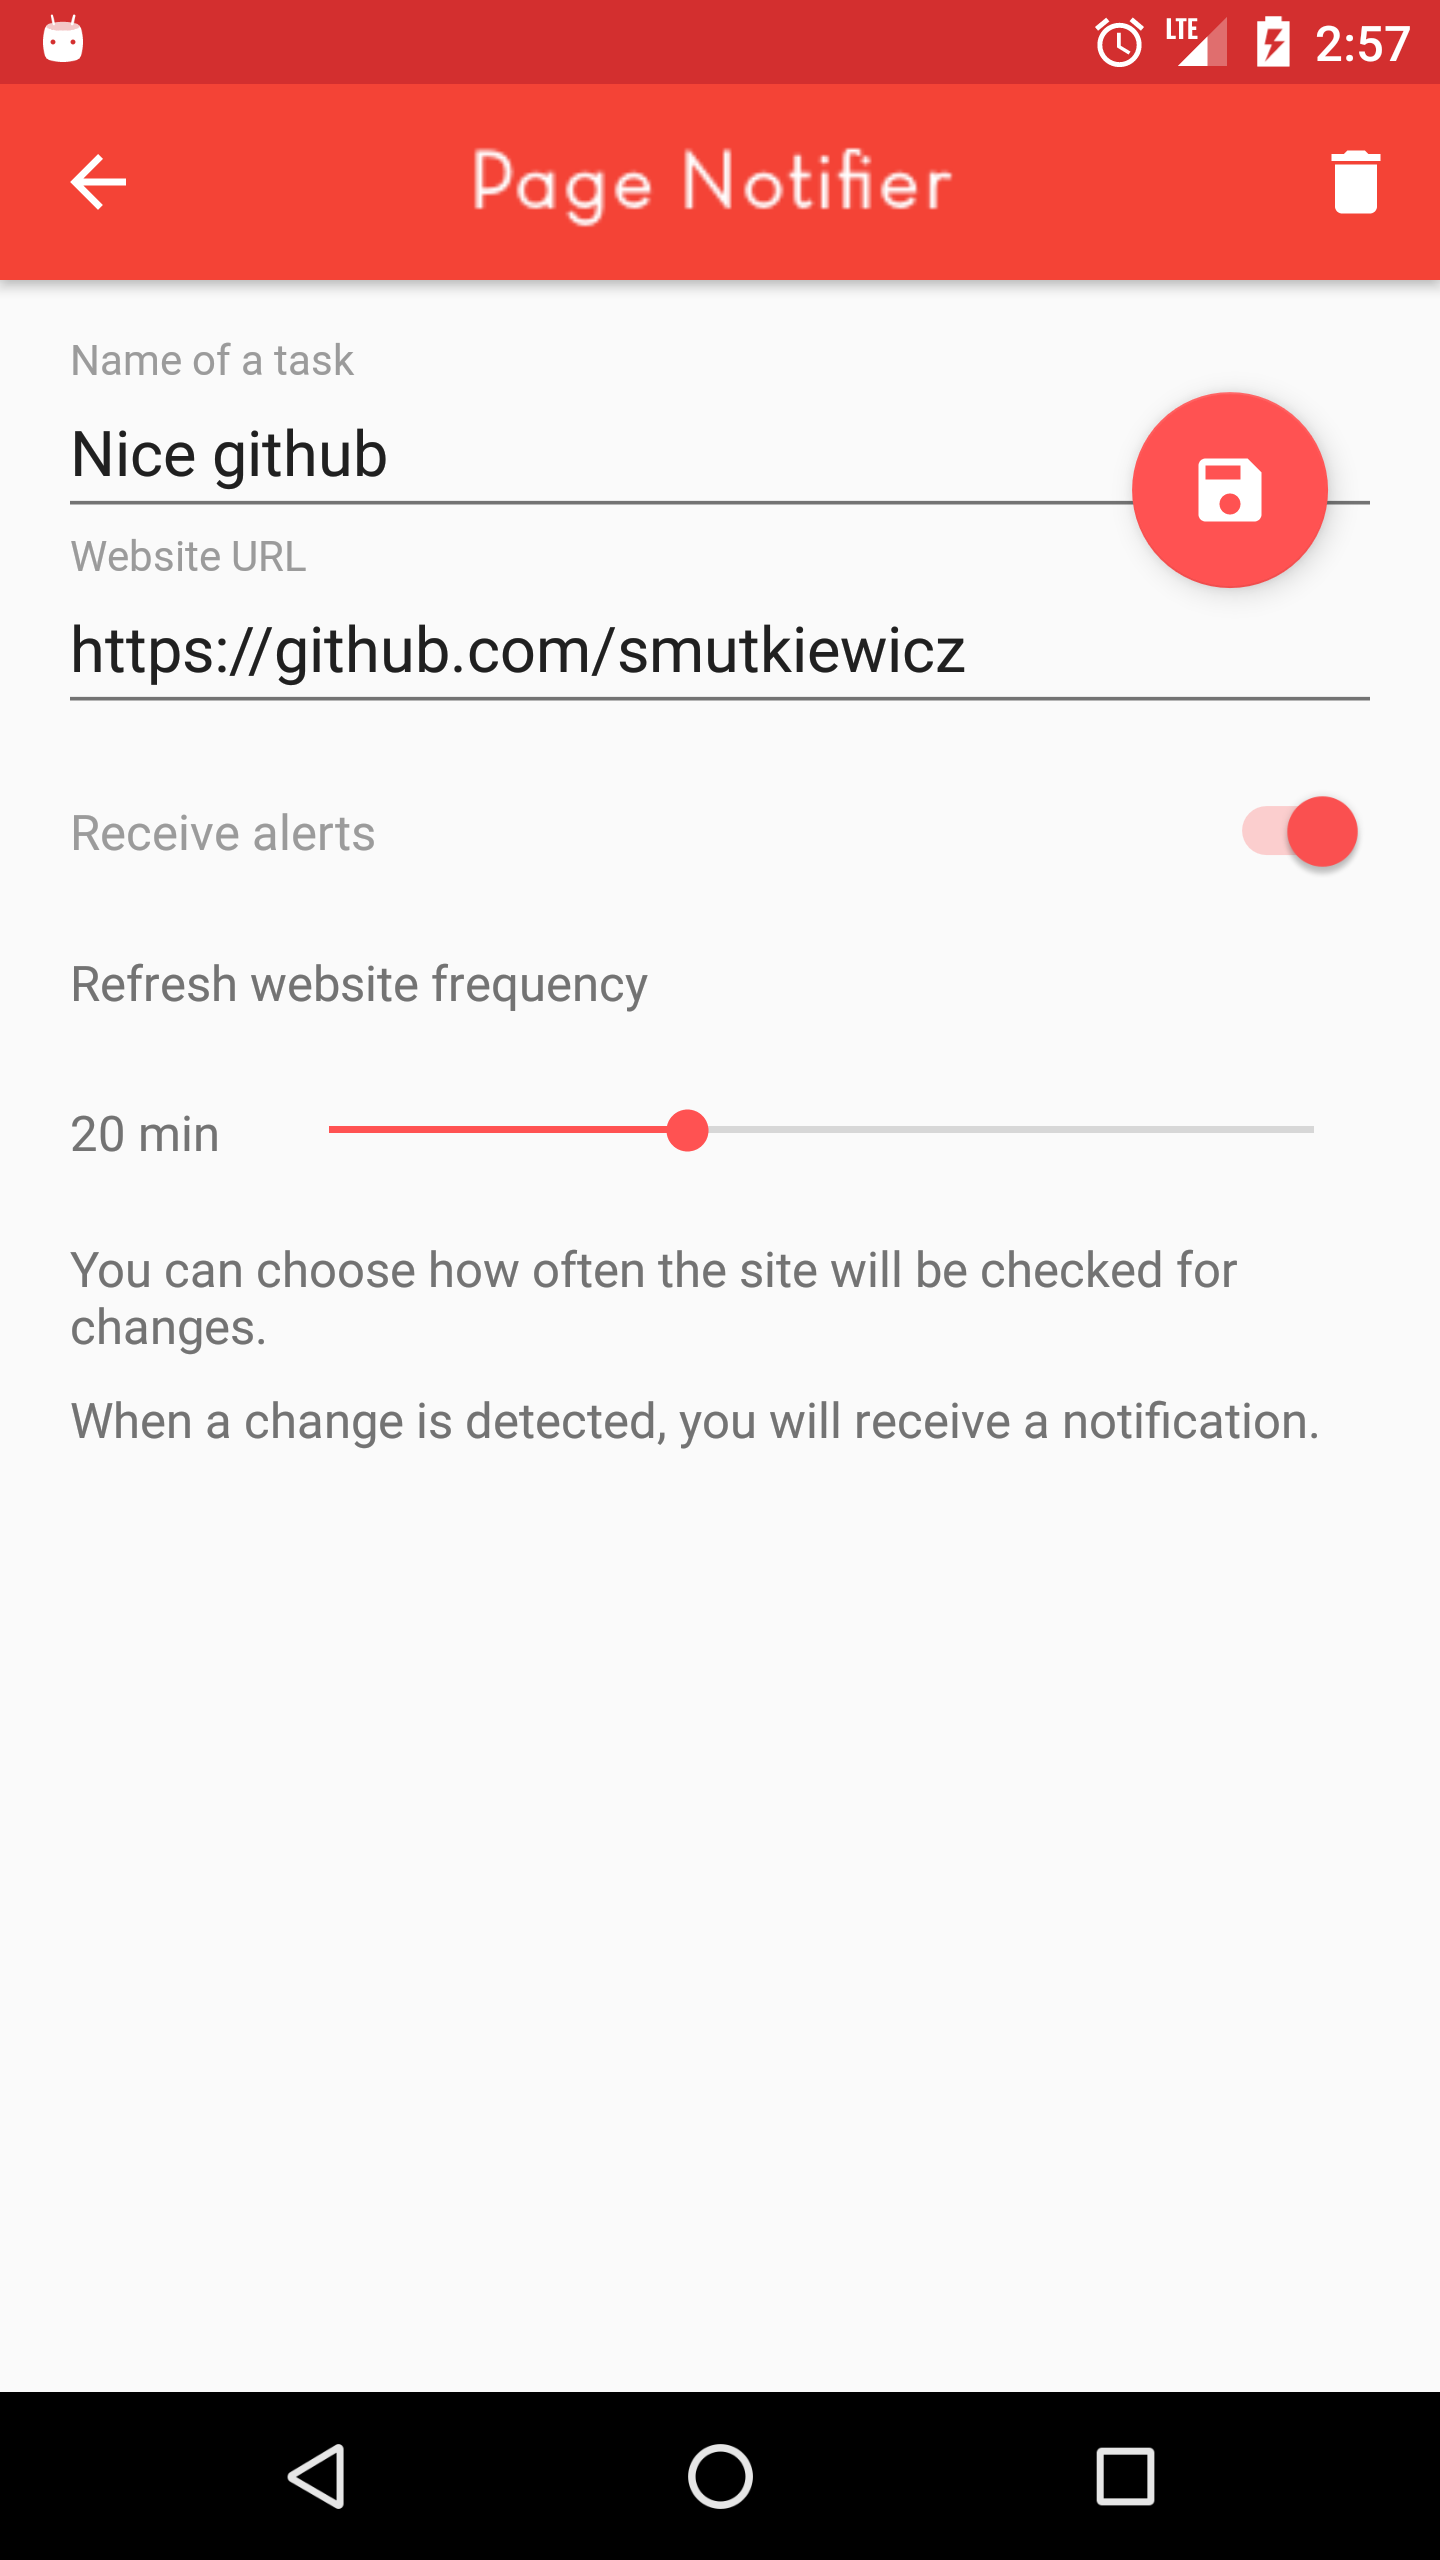
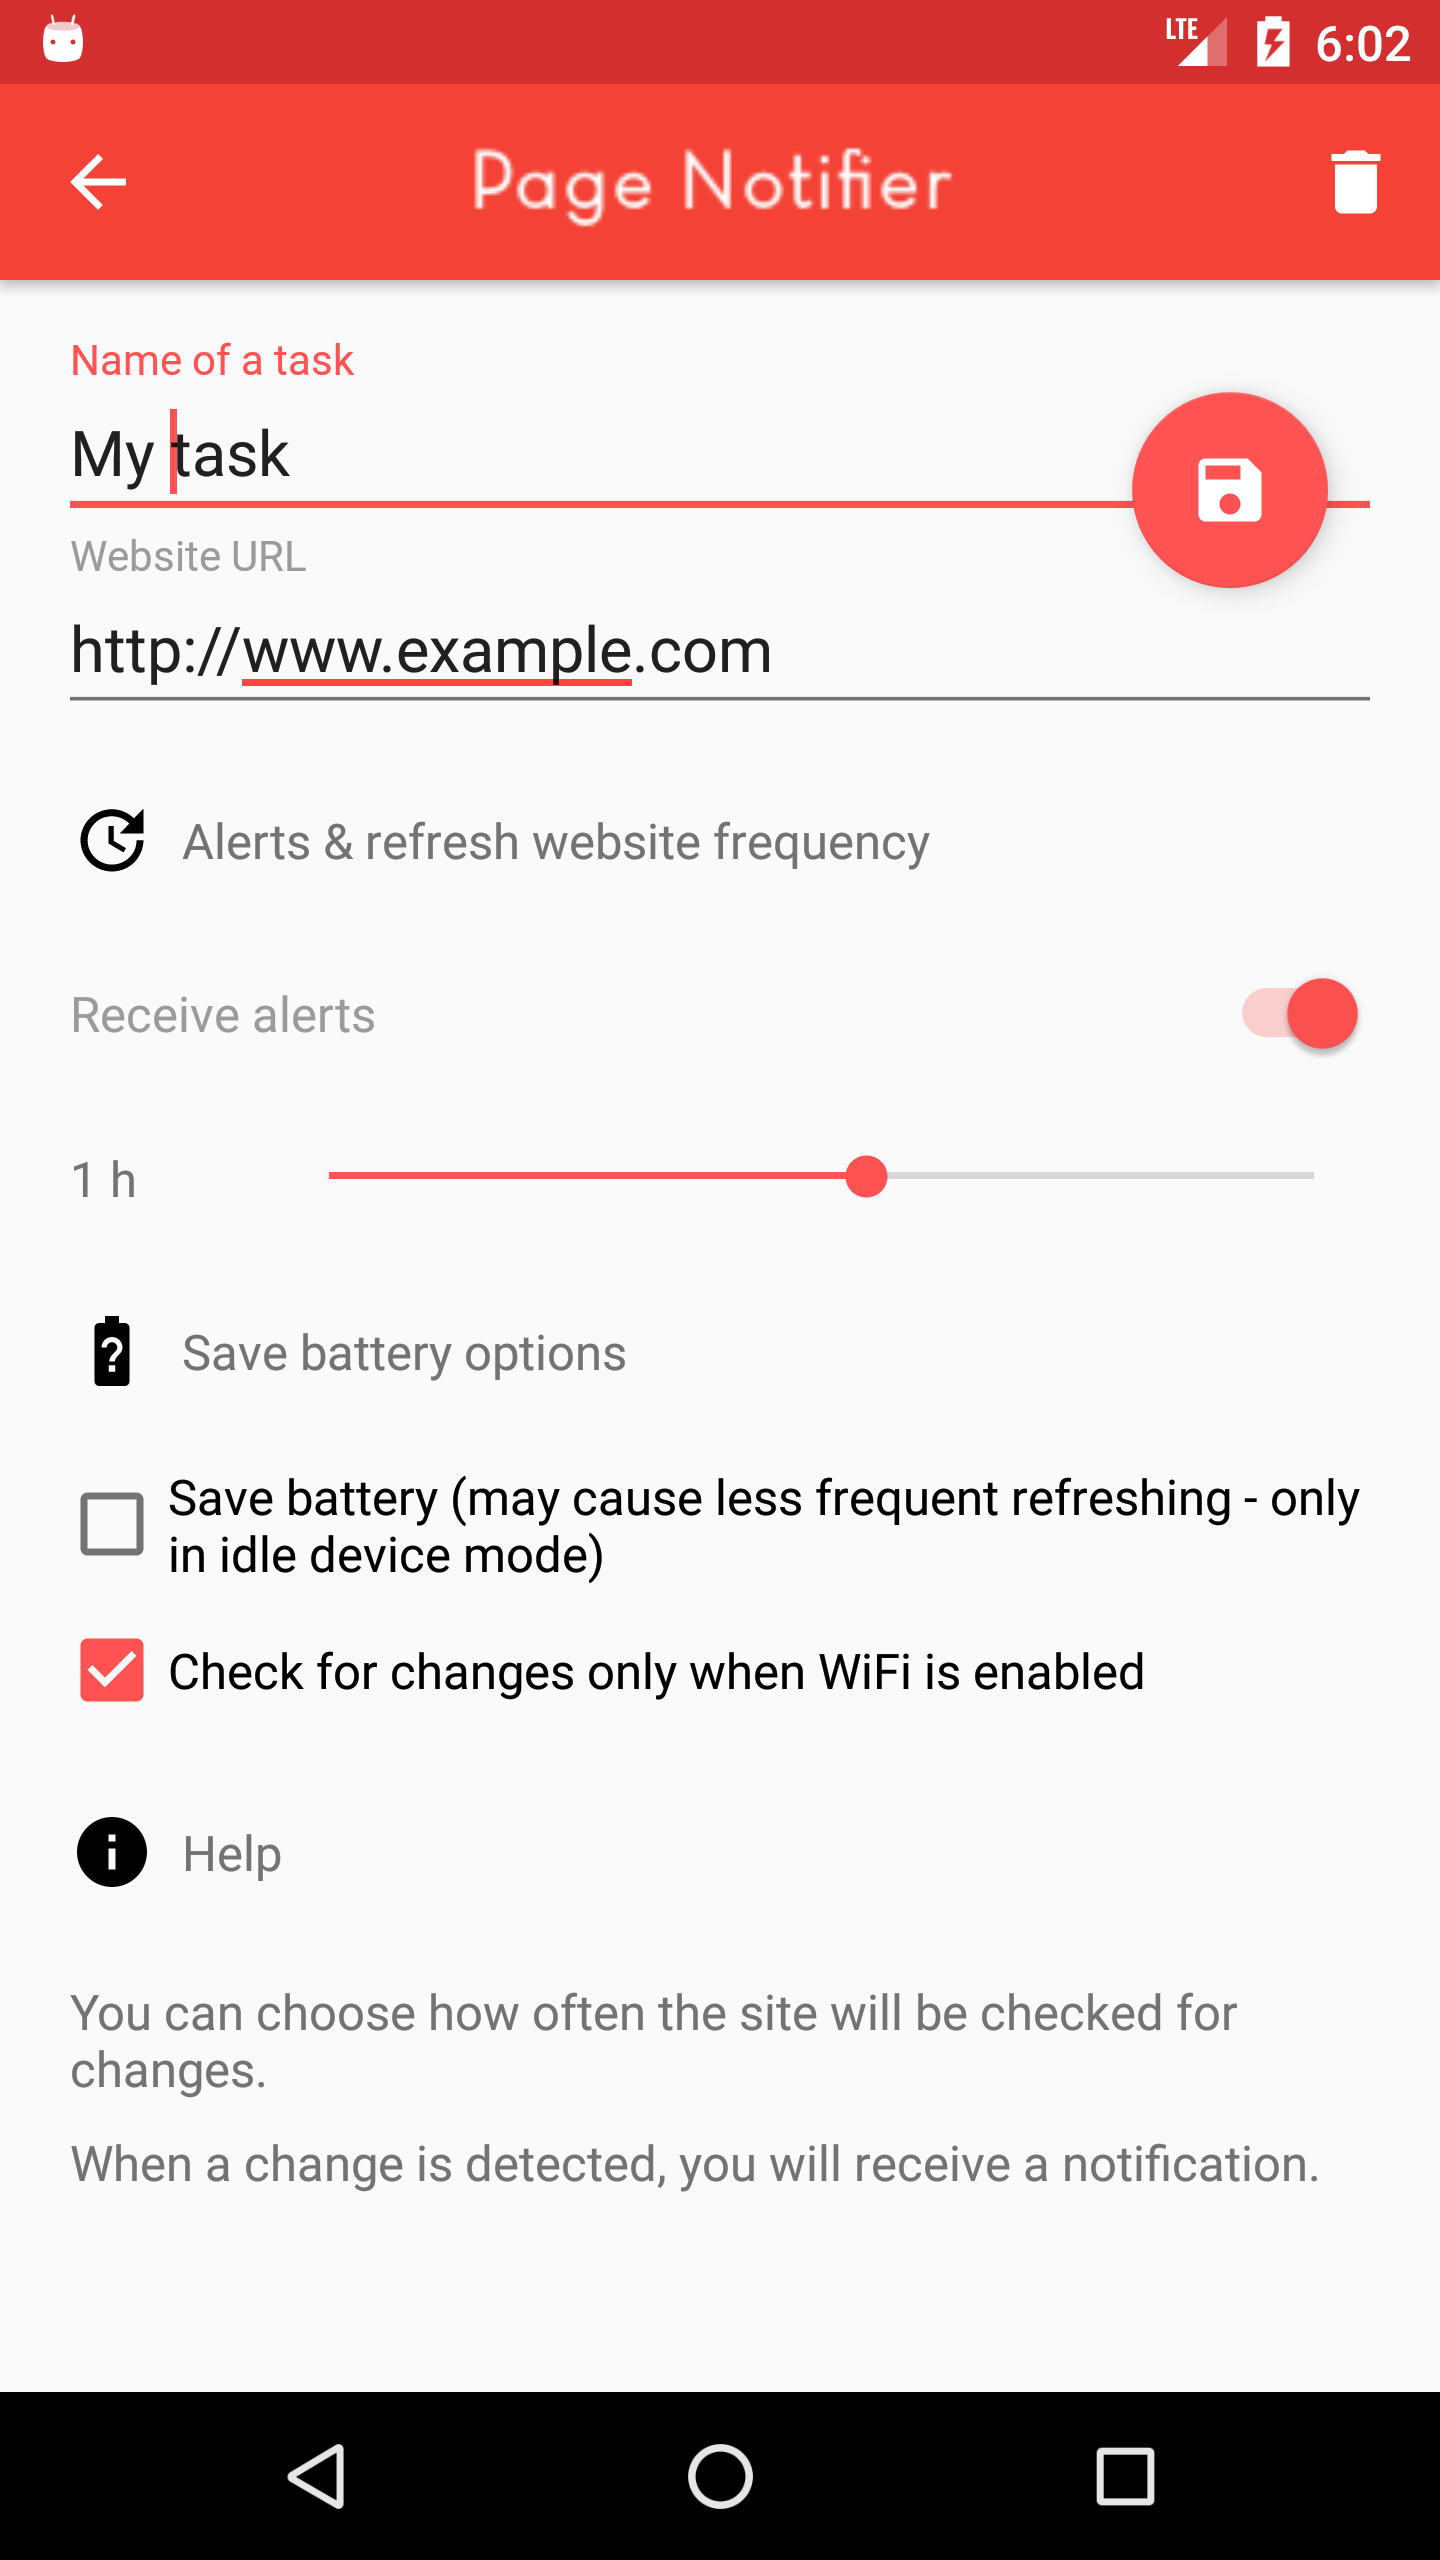
AddEditFragment layout finished, fixed displayFragment bug

diff --git a/app/src/main/java/com/smutkiewicz/pagenotifier/AddEditItemFragment.java b/app/src/main/java/com/smutkiewicz/pagenotifier/AddEditItemFragment.java
@@ -8,6 +8,7 @@ import android.content.DialogInterface;
 import android.database.ContentObserver;
 import android.database.Cursor;
 import android.net.Uri;
+import android.os.Build;
 import android.os.Bundle;
 import android.os.Handler;
 import android.support.design.widget.FloatingActionButton;
@@ -93,6 +94,7 @@ public class AddEditItemFragment extends Fragment
 
         setUpAddEditItemFab(view);
         setFormFillListener();
+        setCheckBoxLabels();
         getBundleArgumentsAndInitLoaderIfNeeded();
         initNeededTypeOfView();
 
@@ -199,6 +201,15 @@ public class AddEditItemFragment extends Fragment
 
     private void setFormFillListener() {
         urlEditText.addTextChangedListener(new TextChangedListener());
+    }
+
+    private void setCheckBoxLabels() {
+        if(Build.VERSION.SDK_INT >= Build.VERSION_CODES.O) {
+            // inteligentne zarządzanie zadaniami w tle dla Android Oreo
+            saveBatteryCheckBox.setText(R.string.addedit_save_battery_for_Oreo);
+        } else {
+            saveBatteryCheckBox.setText(R.string.addedit_save_battery);
+        }
     }
 
     private void getBundleArgumentsAndInitLoaderIfNeeded() {

diff --git a/app/src/main/java/com/smutkiewicz/pagenotifier/service/MyJobScheduler.java b/app/src/main/java/com/smutkiewicz/pagenotifier/service/MyJobScheduler.java
@@ -124,15 +124,12 @@ public class MyJobScheduler {
 
     private void enableSaveBatteryOptions(JobInfo.Builder builder) {
         if (Build.VERSION.SDK_INT >= Build.VERSION_CODES.O) {
+            // inteligentne zarządzanie zadaniami w tle dla Android Oreo
             builder.setRequiresBatteryNotLow(true);
             builder.setRequiresStorageNotLow(true);
         } else {
             builder.setRequiresDeviceIdle(true);
         }
-
-        // TODO
-        //setRequiresDeviceIdle
-        //setRequiresCharging
     }
 
     private void setJobPeriodic(JobInfo.Builder builder, long delay) {

diff --git a/app/src/main/java/com/smutkiewicz/pagenotifier/MainActivity.java b/app/src/main/java/com/smutkiewicz/pagenotifier/MainActivity.java
@@ -121,9 +121,7 @@ public class MainActivity extends AppCompatActivity
 
         switch (requestCode) {
             case PermissionGranter.WRITE_READ_PERMISSIONS_FOR_ADD: {
-                if(permissionsGranted)
-                    displayAddEditFragment(Uri.EMPTY, R.id.fragmentContainer);
-                else
+                if(!permissionsGranted)
                     showSnackbar(getString(R.string.main_granter_write_permission_denied));
 
                 break;
